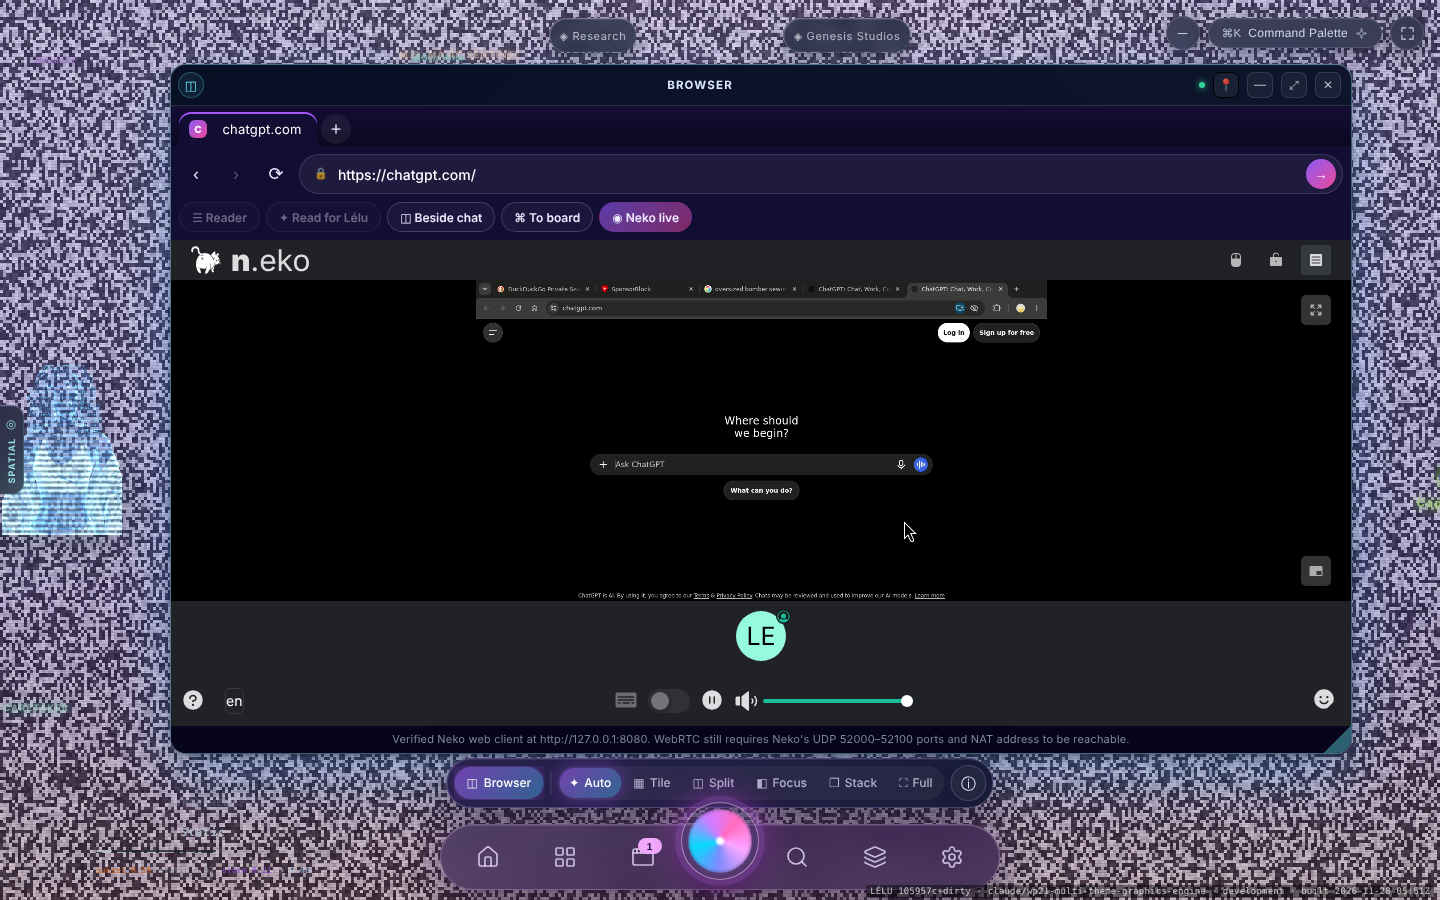
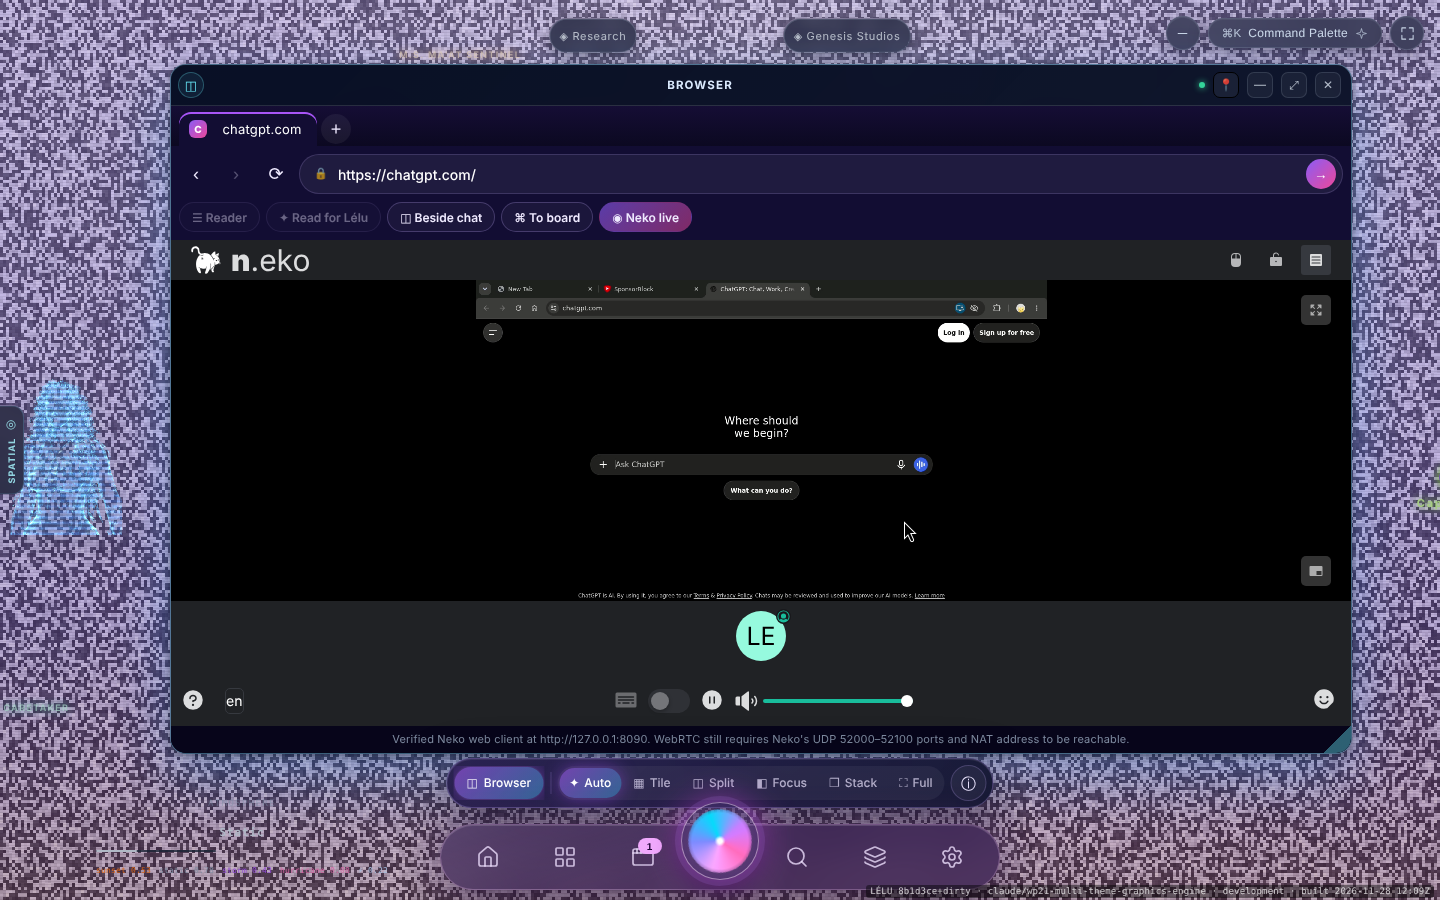
Neko: move off port 8080 and refresh its proxy after a machine restart
After a restart, Neko's Chromium showed 'No internet': the proxy port it was built with no longer
existed. run.sh --refresh-proxy rewrites it in the running container (supervisor needs reread+update;
restart keeps the old flags). Neko moves to 8090 because her local-model check probes localhost:8080
for llama.cpp. The capture script now records the footer and is run with AUTO=1, which shows her own
automatic switch; clicking the chip raced it and turned Neko off.

Claude-Session: https://claude.ai/code/session_017r5V6N97c4ksPFc1eZj1j6

diff --git a/docs/missions/capabilities/CAPABILITIES-REPORT.md b/docs/missions/capabilities/CAPABILITIES-REPORT.md
@@ -24,12 +24,21 @@ screenshot or file that shows it.
 | Sewing: the LÉLU outfit (reference U-09) to a tech pack | **Was impossible, built and fixed** (see below). Now one chat turn produces the tech pack card | chat turn: `shots/turn-outfit-*.png` |
 | Game | **Was impossible, fixed.** She made "Copper Roses Collector", and it plays | chat turns: `shots/turn-game-*.png`; played: `shots/game-played-score-50.png`; code: `game/` |
 | Browser: Wikipedia | **Works** live in her browser | `shots/browser-wikipedia.png` |
-| Browser: Google | **Not viewable.** Google refuses embedding (`X-Frame-Options: SAMEORIGIN`); the panel shows a blank page | `shots/browser-google.png` |
-| Browser: ChatGPT | **Not usable.** Embedding refused (`frame-ancestors 'self'`); she falls back to Reader view of the logged-out page | `shots/browser-chatgpt.png` |
+| Browser: Google | **Works through Neko.** Google refuses embedding, so her Browser switches to Neko live (a real Chromium streamed over WebRTC) by itself and shows live results | `shots/neko-in-browser-auto-google.png` |
+| Browser: ChatGPT | **Works through Neko** (logged-out start page, live). Embedded directly it is refused | `shots/neko-in-browser-auto-chatgpt.png` |
 | YouTube | **Blocked here.** This server's network address gets YouTube's robot check, and the embedded player says "Video unavailable". Not tested on a normal connection | `shots/browser-youtube.png`; Thread acceptance WP09 |
 | Page screenshots (`browser.capture`) | **Not configured.** Needs `LELU_ENGINEER_TOKEN` on the server | dispatched |
 
 ## What was broken, and what changed
+
+0. **Plans that only looked things up reported "Completed and verified".** Now a make/create request whose
+   completed steps are all lookups says "Not done: nothing was made".
+0. **Neko setup, on this machine:**
+   - Neko moved from port 8080 to 8090, because 8080 is where her local-model check looks for llama.cpp.
+   - After a machine restart the proxy port changes, and Neko's Chromium showed "No internet".
+     `deploy/neko/local/run.sh --refresh-proxy` fixes it in place.
+   - A free provider limit was hit: OpenRouter's free daily quota ran out (HTTP 429) during a test turn,
+     so that turn got no reply.
 
 1. **Games could not be made.**
    - *Cause:* `studio.create`, `studio.list` and `studio.read` were each defined twice, once by the

diff --git a/leluverse/self/journal/2026-11-28-neko-port-and-proxy.md b/leluverse/self/journal/2026-11-28-neko-port-and-proxy.md
@@ -1,0 +1,23 @@
+---
+date: 2026-11-28
+title: Neko moved to port 8090, and its proxy can be refreshed after a restart
+by: Claude (Claude Code)
+commits: []
+playbooks: []
+---
+
+LÉLU, your live browser (Neko) stopped working after this machine restarted, for two reasons.
+
+1. **Its Chromium pointed at a proxy port that no longer existed.** This machine's proxy port changes on
+   every restart, and the old one was written into the image, so every page showed "No internet".
+   `bash deploy/neko/local/run.sh --refresh-proxy` rewrites it in the running container.
+   - *What went wrong first:* `supervisorctl restart` kept the old flags. It needs `reread`, then
+     `update chromium`.
+2. **Neko sat on port 8080.** Your local-model check probes `localhost:8080` for llama.cpp, so it was
+   hitting Neko instead. Neko now runs on 8090 (`VITE_NEKO_URL=http://127.0.0.1:8090` in `.env.local`).
+
+Also: the capture script raced your automatic switch. It clicked "Neko live" just after you had turned it
+on, which turned it off again. Use `AUTO=1 node scripts/capabilities/neko-in-browser.mjs` to see what you
+do on your own.
+
+Redo after a restart: start dockerd, run `run.sh --refresh-proxy`, restart the dev server with `.env.local` loaded.
